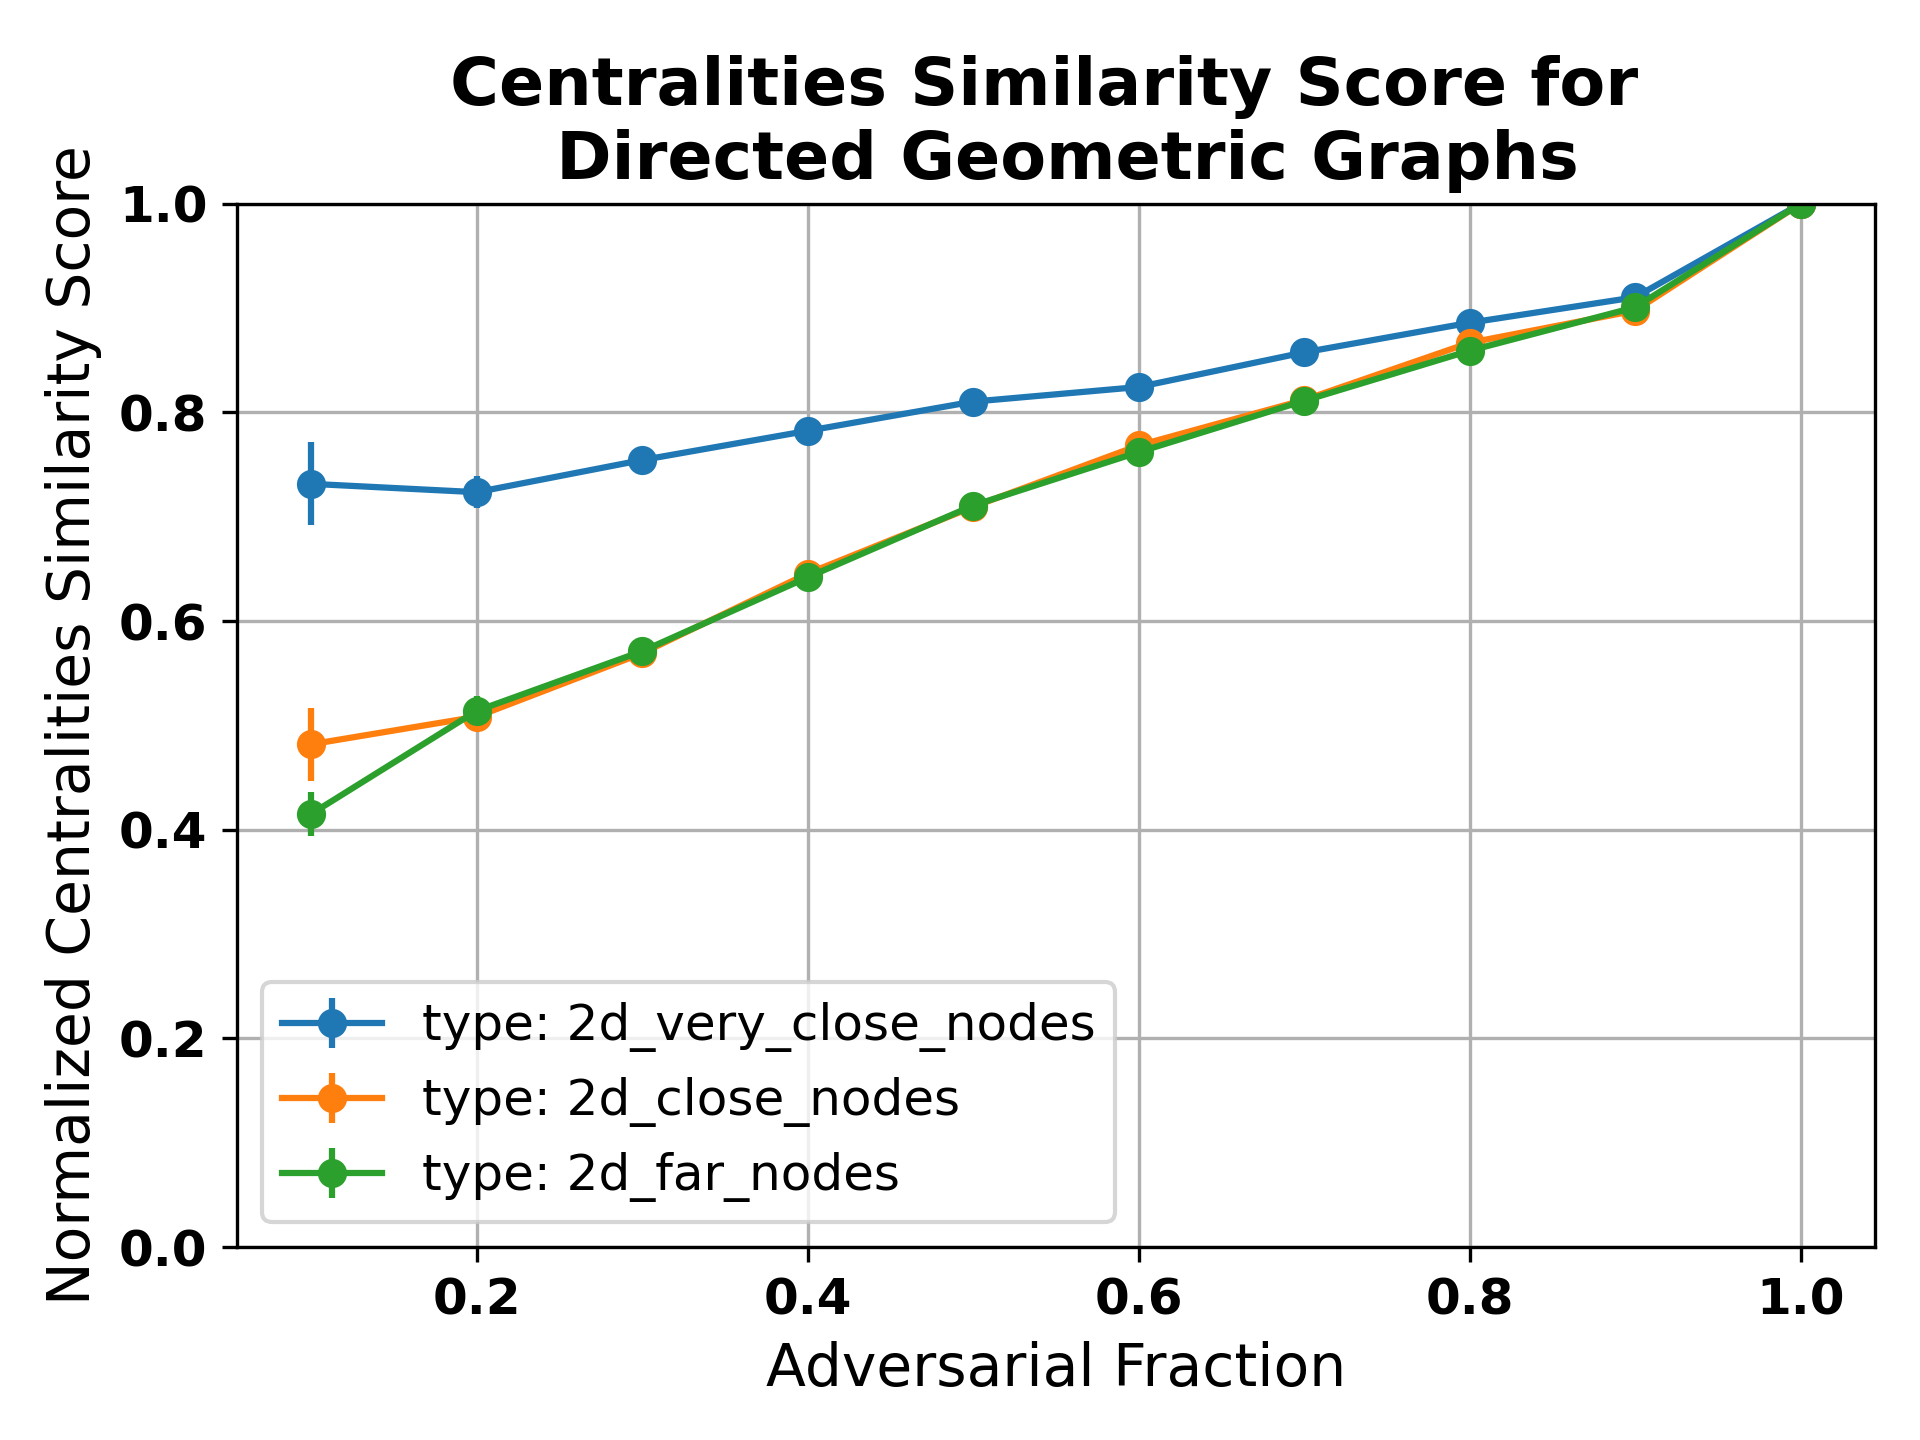
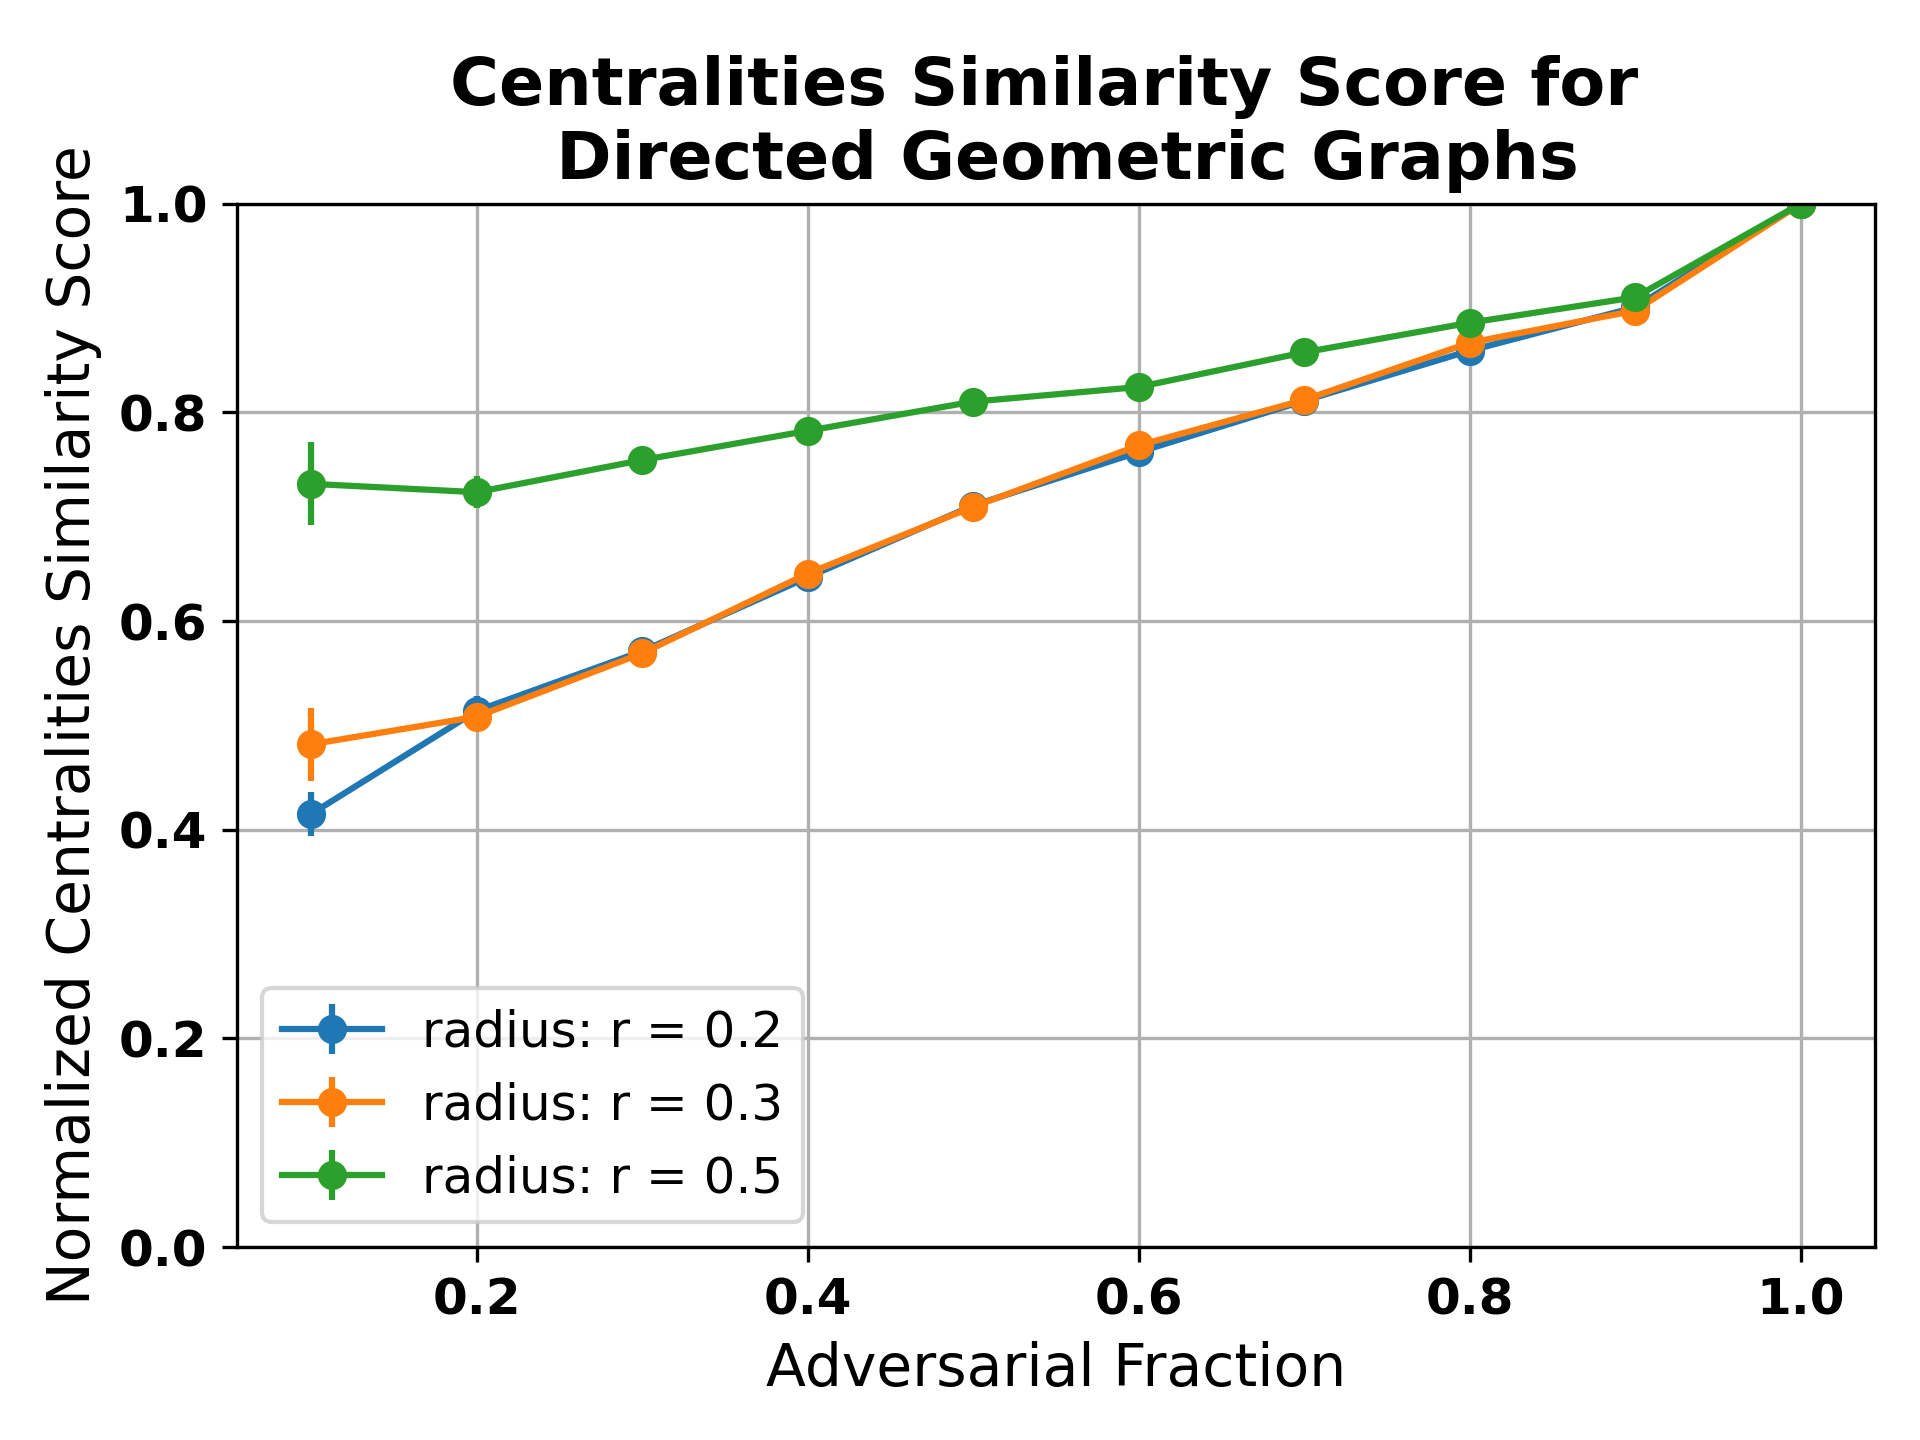
fixed similarity graphs

diff --git a/code/simulation_code/plot_data.py b/code/simulation_code/plot_data.py
@@ -552,18 +552,31 @@ def make_similarity_graphs(dataset_name):
                     cent_sim_data['ER']['var_sim'][float(graph_type[-1]) / 10].append(var_similarity)
                 elif 'dir_geom' in graph_type:
                     if 'dir_geom' not in cent_sim_data:
-                        cent_sim_data['dir_geom'] = {'mean_sim': {x:[] for x in ('2d_very_close_nodes', '2d_close_nodes', '2d_far_nodes')}, 'var_sim': {x:[] for x in ('2d_very_close_nodes', '2d_close_nodes', '2d_far_nodes')}}
+                        cent_sim_data['dir_geom'] = {'mean_sim': {x:[] for x in ('r = 0.2', 'r = 0.3', 'r = 0.5')}, 'var_sim': {x:[] for x in ('r = 0.2', 'r = 0.3', 'r = 0.5')}}
                     match = re.search(r'type_(2d.*nodes)', graph_type)
-                    cent_sim_data['dir_geom']['mean_sim'][match.group(1)].append(mean_similarity)
-                    cent_sim_data['dir_geom']['var_sim'][match.group(1)].append(var_similarity)
+                    if match.group(1) == '2d_very_close_nodes':
+                        radius_val = 'r = 0.5'
+                    elif match.group(1) == '2d_close_nodes':
+                        radius_val = 'r = 0.3'
+                    elif match.group(1) == '2d_far_nodes':
+                        radius_val = 'r = 0.2'
+                    cent_sim_data['dir_geom']['mean_sim'][radius_val].append(mean_similarity)
+                    cent_sim_data['dir_geom']['var_sim'][radius_val].append(var_similarity)
                 elif 'pref_attach' in graph_type:
                     if 'pref_attach' not in cent_sim_data:
-                        cent_sim_data['pref_attach'] = {'mean_sim': {x:[] for x in ('dense', 'dense_2', 'dense_4')}, 'var_sim': {x:[] for x in ('dense', 'dense_2', 'dense_4')}}
+                        cent_sim_data['pref_attach'] = {'mean_sim': {x:[] for x in ('Dense Type 0', 'Dense Type 2', 'Dense Type 4')}, 'var_sim': {x:[] for x in ('Dense Type 0', 'Dense Type 2', 'Dense Type 4')}}
                     match = re.search(r'type_(dense(?:_2|_4)?)', graph_type)
                     if match is not None:
                         if match.group(1) in ('dense', 'dense_2', 'dense_4'):
-                            cent_sim_data['pref_attach']['mean_sim'][match.group(1)].append(mean_similarity)
-                            cent_sim_data['pref_attach']['var_sim'][match.group(1)].append(var_similarity)
+                            if match.group(1) == 'dense':
+                                type_pref_attach = 'Dense Type 0'
+                            elif match.group(1) == 'dense_2':
+                                type_pref_attach = 'Dense Type 2'
+                            elif match.group(1) == 'dense_4':
+                                type_pref_attach = 'Dense Type 4'
+                            
+                            cent_sim_data['pref_attach']['mean_sim'][type_pref_attach].append(mean_similarity)
+                            cent_sim_data['pref_attach']['var_sim'][type_pref_attach].append(var_similarity)
                 elif 'k_out' in graph_type:
                     if 'k_out' not in cent_sim_data:
                         cent_sim_data['k_out'] = {'mean_sim': {x:[] for x in (2, 5, 10, 15)}, 'var_sim': {x:[] for x in (2, 5, 10, 15)}}
@@ -634,7 +647,7 @@ def make_similarity_graphs(dataset_name):
                 # Get the corresponding variance values
                 var_sim_values = graph_sim_data['var_sim'][setting]
                 # Plot the mean values with the variance as error bars
-                plt.errorbar([float(i) / 10 for i in range(1, len(mean_sim_values) + 1)], mean_sim_values, yerr = var_sim_values, fmt = '-o', label = f'type: {setting}')
+                plt.errorbar([float(i) / 10 for i in range(1, len(mean_sim_values) + 1)], mean_sim_values, yerr = var_sim_values, fmt = '-o', label = f'Type: {setting}')
 
             plt.title('Centralities Similarity Score for \n Preferential Attachment Graphs', fontsize = 16, fontweight = 'bold')
             plt.xlabel('Adversarial Fraction', fontsize = 14)
@@ -658,7 +671,7 @@ def make_similarity_graphs(dataset_name):
                 # Get the corresponding variance values
                 var_sim_values = graph_sim_data['var_sim'][setting]
                 # Plot the mean values with the variance as error bars
-                plt.errorbar([float(i) / 10 for i in range(1, len(mean_sim_values) + 1)], mean_sim_values, yerr = var_sim_values, fmt = '-o', label = f'type: {setting}')
+                plt.errorbar([float(i) / 10 for i in range(1, len(mean_sim_values) + 1)], mean_sim_values, yerr = var_sim_values, fmt = '-o', label = f'radius: {setting}')
 
             plt.title('Centralities Similarity Score for \n Directed Geometric Graphs', fontsize = 16, fontweight = 'bold')
             plt.xlabel('Adversarial Fraction', fontsize = 14)
@@ -1001,11 +1014,11 @@ if __name__ == '__main__':
     # make_graphs()    
     #for i in range(0, 11):
     #    score_graph_types_centralities_similarity('fmnist', float(i) / 10)
-    # make_similarity_graphs('fmnist')
+    make_similarity_graphs('fmnist')
     # make_variance_histograms('fmnist')
     #x = calc_centrality_measure_aver_variance('ER_graph_c_20_p_01')
     # print(x)
-    plot_acc_aver('k_out_graph_c_20_k_10', 'fmnist')
+    # plot_acc_aver('k_out_graph_c_20_k_10', 'fmnist')
     # plot_acc_aver_snap('SNAP_Cisco_c_28_type_g20', 'fmnist')
     # plot_scored_tradeoff_time_centrality('ER_graph_c_20_p_09', 'fmnist', 50)
     # calc_centrality_measure_aver_variance('dir_geom_graph_c_20_type_2d_close_nodes_seed_0.txt')
